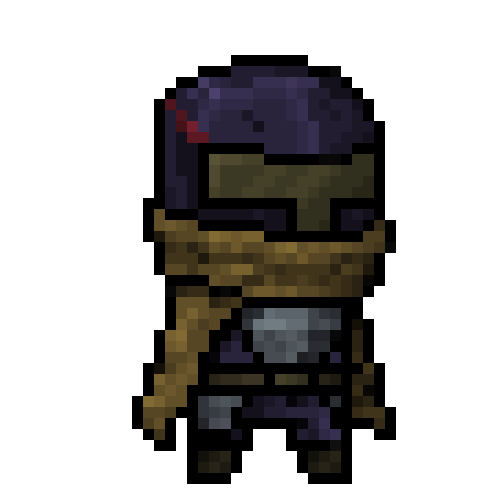
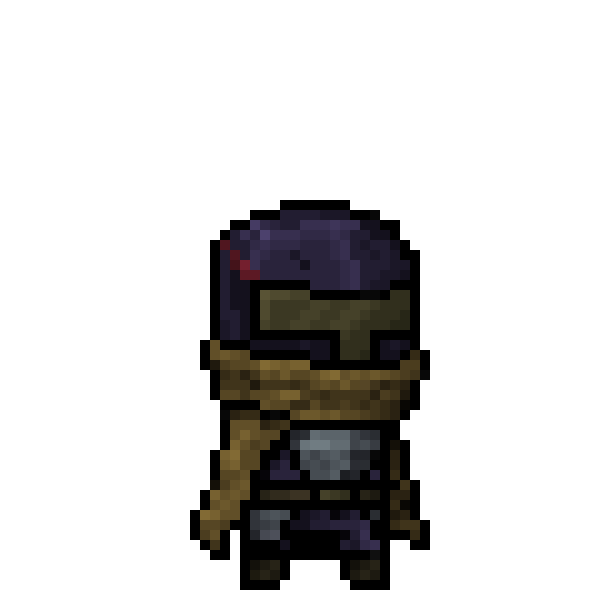
Add files via upload

diff --git a/index.html b/index.html
@@ -183,7 +183,7 @@
             padding: 2.5rem 0 3rem;
             position: relative;
             overflow: hidden;
-/*            background-color: #0b0b10;*/
+            /*            background-color: #0b0b10;*/
             min-height: 500px;
             display: flex;
             flex-direction: column;
@@ -218,7 +218,7 @@
             }
 
             /* Затемнение поверх фона для лучшей читаемости текста */
-/*            .hero::after {
+            /*            .hero::after {
                 content: '';
                 position: absolute;
                 top: 0;
@@ -513,11 +513,11 @@
                 left: 0;
                 right: 0;
                 bottom: 0;
-                background-image: url('Desk.png');
+                background-image: url('Background.png');
                 background-size: cover;
                 background-position: center;
                 background-repeat: no-repeat;
-                opacity: 0.5;
+                /*                opacity: 0.5;*/
                 z-index: 0;
                 /* Растягиваем фон на всю ширину */
                 width: 100vw;
@@ -533,20 +533,22 @@
                 z-index: 2;
             }
 
+            /* ----- ПЕРЕОПРЕДЕЛЕНИЕ РАЗМЕРОВ ДЛЯ КАРУСЕЛИ ПЕРСОНАЖЕЙ ----- */
             .char-carousel-container .carousel-slide {
                 min-width: 100%;
-                aspect-ratio: 16 / 9;
+                aspect-ratio: 16 / 4; /* ← Меняйте это значение */
+                background: transparent;
                 display: flex;
                 align-items: center;
                 justify-content: center;
-                background: transparent;
                 position: relative;
             }
 
+                /* Если нужно, чтобы изображения внутри тоже подстроились */
                 .char-carousel-container .carousel-slide img {
                     width: auto;
-                    height: 80%;
-                    max-height: 80%;
+                    height: 50%; /* ← Процент от высоты слайда */
+                    max-height: 50%;
                     object-fit: contain;
                     display: block;
                     filter: drop-shadow(0 8px 40px rgba(0, 0, 0, 0.8));
@@ -1285,9 +1287,9 @@
                 <div class="carousel-wrapper">
                     <div class="carousel-container" id="artCarousel">
                         <div class="carousel-track" id="artTrack">
-                            <div class="carousel-slide"><img src="https://via.placeholder.com/1200x675/1a1a2e/8B5CF6?text=Art+1" alt="Art 1" /></div>
-                            <div class="carousel-slide"><img src="https://via.placeholder.com/1200x675/1a1a2e/8B5CF6?text=Art+2" alt="Art 2" /></div>
-                            <div class="carousel-slide"><img src="https://via.placeholder.com/1200x675/1a1a2e/8B5CF6?text=Art+3" alt="Art 3" /></div>
+                            <div class="carousel-slide"><img src="SoS_MainPoster1.png" alt="Art 1" /></div>
+                            <div class="carousel-slide"><img src="DarkKnight.png" alt="Art 2" /></div>
+                            <div class="carousel-slide"><img src="TriangleDefeated.jpg" alt="Art 3" /></div>
                         </div>
                         <button class="carousel-btn prev" data-carousel="art"><i class="fas fa-chevron-left"></i></button>
                         <button class="carousel-btn next" data-carousel="art"><i class="fas fa-chevron-right"></i></button>
@@ -1312,13 +1314,13 @@
                                 <img src="Player.png" alt="Character 1" />
                             </div>
                             <div class="carousel-slide">
-                                <img src="https://via.placeholder.com/400x600/transparent/f6cb5c?text=PNG+Char+2" alt="Character 2" />
+                                <img src="Trader.png" alt="Character 2" />
                             </div>
                             <div class="carousel-slide">
-                                <img src="https://via.placeholder.com/400x600/transparent/5cf68c?text=PNG+Char+3" alt="Character 3" />
+                                <img src="OldKnight.png" alt="Character 3" />
                             </div>
                             <div class="carousel-slide">
-                                <img src="https://via.placeholder.com/400x600/transparent/FA0130?text=PNG+Char+4" alt="Character 4" />
+                                <img src="Elizabeth.png" alt="Character 4" />
                             </div>
                         </div>
                         <button class="carousel-btn prev" data-carousel="char"><i class="fas fa-chevron-left"></i></button>
@@ -1373,8 +1375,8 @@
     <div id="page-gameplay" class="page">
         <section class="section">
             <div style="display: flex; align-items: center; gap: 1.5rem; margin-bottom: 2rem; flex-wrap: wrap;">
-                <a href="#" class="back-link" id="backToGameFromGameplay"><i class="fas fa-arrow-left"></i> <span>Back to game</span></a>
-                <h2 style="font-size: 2rem; font-weight: 700; background: linear-gradient(135deg, #f0f0ff, #c4b0ff); -webkit-background-clip: text; -webkit-text-fill-color: transparent; background-clip: text;">
+                <a href="#" class="back-link" id="backToGameFromGameplay"><i class="fas fa-arrow-left"></i> <span data-i18n="back_to_game">Back to game</span></a>
+                <h2 style="font-size: 2rem; font-weight: 700; background: linear-gradient(135deg, #f0f0ff, #c4b0ff); -webkit-background-clip: text; -webkit-text-fill-color: transparent; background-clip: text;" data-i18n="gameplay_title">
                     Gameplay & World
                 </h2>
             </div>
@@ -1382,15 +1384,15 @@
             <!-- Блок 1: Скриншот слева, текст справа -->
             <div style="display: grid; grid-template-columns: 1fr 1fr; gap: 2rem; margin-bottom: 3rem; align-items: center;">
                 <div style="border-radius: 24px; overflow: hidden; border: 1px solid #2a2a44;">
-                    <img src="https://via.placeholder.com/800x450/1a1a2e/8B5CF6?text=Gameplay+Screenshot+1" alt="Gameplay 1" style="width: 100%; height: 100%; object-fit: cover; display: block;" />
+                    <img src="Screenshot3.jpg" alt="Gameplay 1" style="width: 100%; height: 100%; object-fit: cover; display: block;" />
                 </div>
                 <div>
-                    <h3 style="color: #f6cb5c; font-size: 1.5rem; margin-bottom: 1rem;">Epic Combat System</h3>
-                    <p style="color: #c8c8e4; line-height: 1.8;">Experience deep tactical combat where every decision matters. Choose from multiple weapon types, combine abilities, and master the art of battle against hordes of demons.</p>
+                    <h3 style="color: #f6cb5c; font-size: 1.5rem; margin-bottom: 1rem;" data-i18n="gameplay_block1_title">Simple but Engaging Combat System</h3>
+                    <p style="color: #c8c8e4; line-height: 1.8;" data-i18n="gameplay_block1_text">Engage in deadly battles where every missed strike matters. Choose your playstyle, combine abilities, and master the art of fighting demon hordes.</p>
                     <ul style="color: #9a9ab8; margin-top: 1rem; list-style: none; padding: 0;">
-                        <li style="padding: 0.3rem 0;"><i class="fas fa-check" style="color: #5cf68c; margin-right: 0.5rem;"></i> Real-time combat with dodge and parry mechanics</li>
-                        <li style="padding: 0.3rem 0;"><i class="fas fa-check" style="color: #5cf68c; margin-right: 0.5rem;"></i> 50+ unique weapons and spells</li>
-                        <li style="padding: 0.3rem 0;"><i class="fas fa-check" style="color: #5cf68c; margin-right: 0.5rem;"></i> Challenging boss encounters</li>
+                        <li style="padding: 0.3rem 0;"><i class="fas fa-check" style="color: #5cf68c; margin-right: 0.5rem;"></i> <span data-i18n="gameplay_block1_li1">Real-time combat with weapon combos, dodging and parrying</span></li>
+                        <li style="padding: 0.3rem 0;"><i class="fas fa-check" style="color: #5cf68c; margin-right: 0.5rem;"></i> <span data-i18n="gameplay_block1_li2">Various weapon combinations, summonable creatures and magic runes</span></li>
+                        <li style="padding: 0.3rem 0;"><i class="fas fa-check" style="color: #5cf68c; margin-right: 0.5rem;"></i> <span data-i18n="gameplay_block1_li3">Epic battles with a variety of bosses</span></li>
                     </ul>
                 </div>
             </div>
@@ -1398,31 +1400,39 @@
             <!-- Блок 2: Текст слева, скриншот справа -->
             <div style="display: grid; grid-template-columns: 1fr 1fr; gap: 2rem; margin-bottom: 3rem; align-items: center;">
                 <div>
-                    <h3 style="color: #f6cb5c; font-size: 1.5rem; margin-bottom: 1rem;">Dark Fantasy World</h3>
-                    <p style="color: #c8c8e4; line-height: 1.8;">Immerse yourself in a rich, atmospheric world filled with ancient secrets, forgotten civilizations, and dark magic. Every location tells a story.</p>
+                    <h3 style="color: #f6cb5c; font-size: 1.5rem; margin-bottom: 1rem;" data-i18n="gameplay_block2_title">Dark Fantasy World</h3>
+                    <p style="color: #c8c8e4; line-height: 1.8;" data-i18n="gameplay_block2_text">Immerse yourself in a rich, atmospheric world filled with the secrets of the gods, forgotten civilizations and dark magic. Every location holds terrifying secrets.</p>
                     <ul style="color: #9a9ab8; margin-top: 1rem; list-style: none; padding: 0;">
-                        <li style="padding: 0.3rem 0;"><i class="fas fa-map" style="color: #f6cb5c; margin-right: 0.5rem;"></i> 10 unique biomes to explore</li>
-                        <li style="padding: 0.3rem 0;"><i class="fas fa-scroll" style="color: #f6cb5c; margin-right: 0.5rem;"></i> Deep lore with 100+ readable items</li>
-                        <li style="padding: 0.3rem 0;"><i class="fas fa-skull" style="color: #f6cb5c; margin-right: 0.5rem;"></i> Dark atmosphere with dynamic lighting</li>
+                        <li style="padding: 0.3rem 0;"><i class="fas fa-map" style="color: #f6cb5c; margin-right: 0.5rem;"></i> <span data-i18n="gameplay_block2_li1">Many unique biomes</span></li>
+                        <li style="padding: 0.3rem 0;"><i class="fas fa-dungeon" style="color: #f6cb5c; margin-right: 0.5rem;"></i> <span data-i18n="gameplay_block2_li2">Atmospheric dungeons</span></li>
+                        <li style="padding: 0.3rem 0;"><i class="fas fa-skull" style="color: #f6cb5c; margin-right: 0.5rem;"></i> <span data-i18n="gameplay_block2_li3">Various types of monsters and demons</span></li>
                     </ul>
                 </div>
                 <div style="border-radius: 24px; overflow: hidden; border: 1px solid #2a2a44;">
-                    <img src="https://via.placeholder.com/800x450/1a1a2e/f6cb5c?text=World+Screenshot+2" alt="World 2" style="width: 100%; height: 100%; object-fit: cover; display: block;" />
+                    <img src="Triangle.jpg" alt="World 2" style="width: 100%; height: 100%; object-fit: cover; display: block;" />
                 </div>
             </div>
 
             <!-- Блок 3: Скриншот слева, текст справа -->
             <div style="display: grid; grid-template-columns: 1fr 1fr; gap: 2rem; margin-bottom: 3rem; align-items: center;">
                 <div style="border-radius: 24px; overflow: hidden; border: 1px solid #2a2a44;">
-                    <img src="https://via.placeholder.com/800x450/1a1a2e/5cf68c?text=Progression+Screenshot+3" alt="Progression 3" style="width: 100%; height: 100%; object-fit: cover; display: block;" />
+                    <img src="Shop.jpg" alt="Progression 3" style="width: 100%; height: 100%; object-fit: cover; display: block;" />
                 </div>
                 <div>
-                    <h3 style="color: #f6cb5c; font-size: 1.5rem; margin-bottom: 1rem;">Deep Progression System</h3>
-                    <p style="color: #c8c8e4; line-height: 1.8;">Customize your character with a flexible progression system. Unlock new abilities, upgrade your gear, and discover powerful artifacts.</p>
+                    <h3 style="color: #f6cb5c; font-size: 1.5rem; margin-bottom: 1rem;" data-i18n="gameplay_block3_title">Simple Progression System</h3>
+                    <p style="color: #c8c8e4; line-height: 1.8;" data-i18n="gameplay_block3_text">Discover new weapons, find companions, and collect magic runes to customize your playstyle.</p>
                     <ul style="color: #9a9ab8; margin-top: 1rem; list-style: none; padding: 0;">
-                        <li style="padding: 0.3rem 0;"><i class="fas fa-star" style="color: #f6cb5c; margin-right: 0.5rem;"></i> 3 skill trees with 20+ abilities each</li>
-                        <li style="padding: 0.3rem 0;"><i class="fas fa-gem" style="color: #f6cb5c; margin-right: 0.5rem;"></i> Crafting and enchantment system</li>
-                        <li style="padding: 0.3rem 0;"><i class="fas fa-trophy" style="color: #f6cb5c; margin-right: 0.5rem;"></i> New Game+ mode with increased difficulty</li>
+                        <!-- Для "Несколько видов оружия" — иконка скрещенных мечей или арсенал -->
+                        <li style="padding: 0.3rem 0;"><i class="fas fa-crosshairs" style="color: #f6cb5c; margin-right: 0.5rem;"></i> <span data-i18n="gameplay_block3_li1">Several weapon types — choose what you like</span></li>
+
+                        <!-- Для "Простая и понятная прокачка" — иконка звезды или график роста -->
+                        <li style="padding: 0.3rem 0;">
+                            <span style="color: #f6cb5c; margin-right: 0.5rem; font-size: 1.1rem;">✦</span>
+                            <span data-i18n="gameplay_block3_li2">Simple and clear leveling</span>
+                        </li>
+
+                        <!-- Для "Отдельный режим для быстрого гринда" — иконка молнии или шестеренки -->
+                        <li style="padding: 0.3rem 0;"><i class="fas fa-fire" style="color: #f6cb5c; margin-right: 0.5rem;"></i> <span data-i18n="gameplay_block3_li3">Separate mode for quick grinding and testing your skills</span></li>
                     </ul>
                 </div>
             </div>
@@ -1448,10 +1458,10 @@
             <div>
                 <h4 data-i18n="footer_contact">Contact</h4>
                 <ul>
-                    <li><a href="#"><i class="fab fa-vk"></i> VK</a></li>
-                    <li><a href="#"><i class="fab fa-tiktok"></i> TikTok</a></li>
-                    <li><a href="#"><i class="fab fa-youtube"></i> YouTube</a></li>
-                    <li><a href="#"><i class="fas fa-crown"></i> Boosty</a></li>
+                    <li><a href="https://m.vk.ru/trivi_games"><i class="fab fa-vk"></i> VK</a></li>
+                    <li><a href="https://www.tiktok.com/@trivigames?_r=1&_t=ZS-98DYHQZASiQ"><i class="fab fa-tiktok"></i> TikTok</a></li>
+                    <li><a href="https://youtube.com/@trivi_games?si=3lHfWE_PD23FU_Pu"><i class="fab fa-youtube"></i> YouTube</a></li>
+                    <li><a href="https://boosty.to/trivigames"><i class="fas fa-crown"></i> Boosty</a></li>
                     <li><a href="#"><i class="fab fa-discord"></i> Discord</a></li>
                 </ul>
             </div>
@@ -1507,7 +1517,24 @@
                     footer_games: 'Games',
                     footer_news: 'News',
                     footer_contact: 'Contact',
-                    footer_rights: 'All rights reserved.'
+                    footer_rights: 'All rights reserved.',
+                    // Gameplay page translations
+                    gameplay_title: 'Gameplay & World',
+                    gameplay_block1_title: 'Simple but Engaging Combat System',
+                    gameplay_block1_text: 'Engage in deadly battles where every missed strike matters. Choose your playstyle, combine abilities, and master the art of fighting demon hordes.',
+                    gameplay_block1_li1: 'Real-time combat with weapon combos, dodging and parrying',
+                    gameplay_block1_li2: 'Various weapon combinations, summonable creatures and magic runes',
+                    gameplay_block1_li3: 'Epic battles with a variety of bosses',
+                    gameplay_block2_title: 'Dark Fantasy World',
+                    gameplay_block2_text: 'Immerse yourself in a rich, atmospheric world filled with the secrets of the gods, forgotten civilizations and dark magic. Every location holds terrifying secrets.',
+                    gameplay_block2_li1: 'Many unique biomes',
+                    gameplay_block2_li2: 'Atmospheric dungeons',
+                    gameplay_block2_li3: 'Various types of monsters and demons',
+                    gameplay_block3_title: 'Simple Progression System',
+                    gameplay_block3_text: 'Discover new weapons, find companions, and collect magic runes to customize your playstyle.',
+                    gameplay_block3_li1: 'Several weapon types — choose what you like',
+                    gameplay_block3_li2: 'Simple and clear leveling',
+                    gameplay_block3_li3: 'Separate mode for quick grinding and testing your skills'
                 },
                 ru: {
                     brand: 'Sword of Salvation',
@@ -1550,7 +1577,24 @@
                     footer_games: 'Игры',
                     footer_news: 'Новости',
                     footer_contact: 'Связаться',
-                    footer_rights: 'Все права защищены.'
+                    footer_rights: 'Все права защищены.',
+                    // Gameplay page translations (Russian)
+                    gameplay_title: 'Геймплей и мир',
+                    gameplay_block1_title: 'Простая, но захватывающая боевая система',
+                    gameplay_block1_text: 'Участвуйте в смертельных сражениях, где важен каждый пропущенный удар. Выбирайте стиль игры по своему вкусу, комбинируйте способности и овладевайте искусством сражения с ордами демонов.',
+                    gameplay_block1_li1: 'Сражения в реальном времени с использованием комбинаций оружия, уклонения и парирования',
+                    gameplay_block1_li2: 'Различные комбинации оружия, призываемых существ и магических рун',
+                    gameplay_block1_li3: 'Захватывающие сражения с самыми разными боссами',
+                    gameplay_block2_title: 'Мир мрачного фэнтези',
+                    gameplay_block2_text: 'Погрузитесь в богатый, атмосферный мир, наполненный тайнами богов, забытыми цивилизациями и темной магией. Каждая локация таит в себе страшные тайны.',
+                    gameplay_block2_li1: 'Множество уникальных биомов',
+                    gameplay_block2_li2: 'Атмосферные подземелья',
+                    gameplay_block2_li3: 'Самые разные виды монстров и демонов',
+                    gameplay_block3_title: 'Понятная система развития',
+                    gameplay_block3_text: 'Открывайте новые пушки, находите компаньонов, и собирайте магические руны.',
+                    gameplay_block3_li1: 'Несколько видов оружия, выбирай, что по нраву',
+                    gameplay_block3_li2: 'Простая и понятная прокачка',
+                    gameplay_block3_li3: 'Отдельный режим для быстрого гринда и проверки своих навыков'
                 }
             };
 